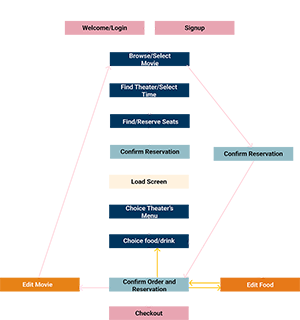
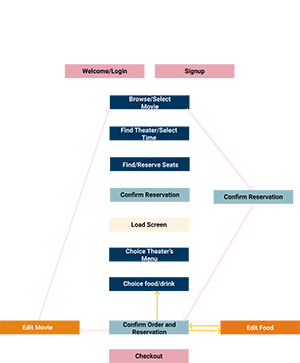
updated
photos from the mMui from png to jpg and updated fonts

diff --git a/mM/uiUx/mMUiUx.html b/mM/uiUx/mMUiUx.html
@@ -50,10 +50,10 @@
                         <p>Nobody likes a crowd and there isn&#39t one person who enjoys waiting.</p>
                     </li>
                     <li class="flex-item" id="flex1">
-                        <img src="../mMUiUx-img/busyConcession-Small2.png" alt="Busy Concessions" id="theWaitPic">
-                        <img src="../mMUiUx-img/theWait - Med.png" alt="Busy Concessions Stories" id="wait1">
-                        <img src="../mMUiUx-img/theWait - Desk.png" alt="Busy Concessions Stories" id="wait2">
-                        <img src="../mMUiUx-img/theWait - Large.png" alt="Busy Concessions Stories" id="wait3">
+                        <img src="../mMUiUx-img/theWait-Small-Feb_18_24.jpg" alt="Busy Concessions" id="theWaitPic">
+                        <img src="../mMUiUx-img/theWait-Med-Feb_18_24.jpg" alt="Busy Concessions Stories" id="wait1">
+                        <img src="../mMUiUx-img/theWait-Desk-Feb_18_24.jpg" alt="Busy Concessions Stories" id="wait2">
+                        <img src="../mMUiUx-img/theWait-Large-Feb_18_24.jpg" alt="Busy Concessions Stories" id="wait3">
                     </li>
                     <li id="flex1-1">
                        <p>The line is long and the movie has started, but you missed dinner and or lunch.<br>
@@ -64,9 +64,9 @@
                     </li>
 
                     <li class="flex-item" id="flex2">
-                        <img src="../mMUiUx-img/Lyndsey-Small.png" alt="Sign Up form" id="lynSmall">
-                        <img src="../mMUiUx-img/persona - Large.png" alt="Sign Up form" id="lynLarge">
-                        <img src="../mMUiUx-img/persona - Desk.png" alt="Sign Up form" id="lynDesk">
+                        <img src="../mMUiUx-img/Lyndsey-Small-Feb_18_24.jpg" alt="Sign Up form" id="lynSmall">
+                        <img src="../mMUiUx-img/persona - Large -Feb_18_24.jpg" alt="Sign Up form" id="lynLarge">
+                        <img src="../mMUiUx-img/persona - Desk -Feb_18_24.jpg" alt="Sign Up form" id="lynDesk">
                     </li>
 
                     <li id="flex2-2">
@@ -83,9 +83,9 @@
                         <p></p>
                 </li>
                 <li class="flex-item" id="flex3">
-                    <img src="../mMUiUx-img/hotWingSelect-Small.png" alt="Order Food" id="hotSmall">
-                    <img src="../mMUiUx-img/hotWingSelect-Med.png" alt="Order Food" id="hotMed">
-                    <img src="../mMUiUx-img/hotWingSelect-Large.png" alt="Order Food" id="hotLarge">
+                    <img src="../mMUiUx-img/hotWingSelect-Small-Feb_18_24.jpg" alt="Order Food" id="hotSmall">
+                    <img src="../mMUiUx-img/hotWingSelect-Med-Feb_18_24.jpg" alt="Order Food" id="hotMed">
+                    <img src="../mMUiUx-img/hotWingSelect-Large-Feb_18_24.jpg" alt="Order Food" id="hotLarge">
                 </li>
                     
                 <li  class="flex-item" id="flex4">  
@@ -131,7 +131,7 @@
                 </li>
                  <li class="flex-item">
                     <img src="../mMUiUx-img/Typography-Small.png" alt="Typography" id="typographySmall">
-                    <img src="../mMUiUx-img/Typography-Med.png" alt="Typography" id="typographyMed">
+                    <img src="../mMUiUx-img/Typography-Desktop.png" alt="Typography" id="typographyMed">
                 </li>
                 <li class="flex-item">
                     <a href="https://www.figma.com/proto/OkTrsySPc7zz9g09eydKeA/Theater-Snack-Service?page-id=1207%3A731&type=design&node-id=1207-732&viewport=319%2C261%2C0.07&t=V73VLQ8kH5pL1B1J-1&scaling=min-zoom&starting-point-node-id=1207%3A732&mode=design" target="_blank"><p class="prototype2" id="flex13"> Mobile Prototype</p></a>

diff --git a/index.html b/index.html
@@ -39,7 +39,7 @@
         
 
         <article class="grid3"><!--list of projrect completed-->
-            <h4 class="flex10 flex-item">Hi!<br><br>I am a Web Developer, UI Designer and Artist.</h4>
+            <h4 class="flex10 flex-item">Hi!<br><br>I am a Web Designer, UI Designer and Artist.</h4>
             <ul class="flex-item innerArticle" id="article">
                 <li>
                     <a href="mM/mMunchies.html" ><img src="images/mMLogoSmallDevice-Feb_18_24.jpg" alt="Movie Munchies" class="flex-item flex3" id="mMlogo"></a>
@@ -49,7 +49,7 @@
 					<a href="" target="_blank"><p class="flex-item flex4" id="amber">Morbid<br>Mori</p></a>
                 </li>-->
                 <li>
-					<img src="images/guardianUnderFeb_18_24.jpg" class="flex-item flex5" id="guardian">
+					<img src="images/guardianUnderFeb_18_24.jpg" alt="guardian project is under construction" class="flex-item flex5" id="guardian ">
                 </li>
             </ul>  
 		</article>

diff --git a/art-gallery/myArtPage.html b/art-gallery/myArtPage.html
@@ -26,8 +26,8 @@
             </aside>
             <article id="article">
                 <div class="quote">
-                    <h4 style="font-family: garamond, 'courier new' ; color: hsla(316, 21%, 86%, 0.7) ; margin-left: 7%;">"Art is too important not to share"</h4>
-                    <p  style="font-family: garamond, 'courier new' ; color: hsla(316, 21%, 86%, 0.7) ; margin-left: 17%;">-Romeo Britto</p>
+                    <h4 style="font-family: Arial, Helvetica, sans-serif ; color:#faebd7 ; margin-left: 7%;">"Art is too important not to share"</h4>
+                    <p  style="font-family:Arial, Helvetica, sans-serif ; color:#faebd7 ; margin-left: 17%;">-Romeo Britto</p>
                 </div>
                 <figure id="figure">
                     <img src ="artImgs/tear-of-the-fallenFrameMed-Feb_18_24.jpg" alt="satbury village max" class="mainImg">
